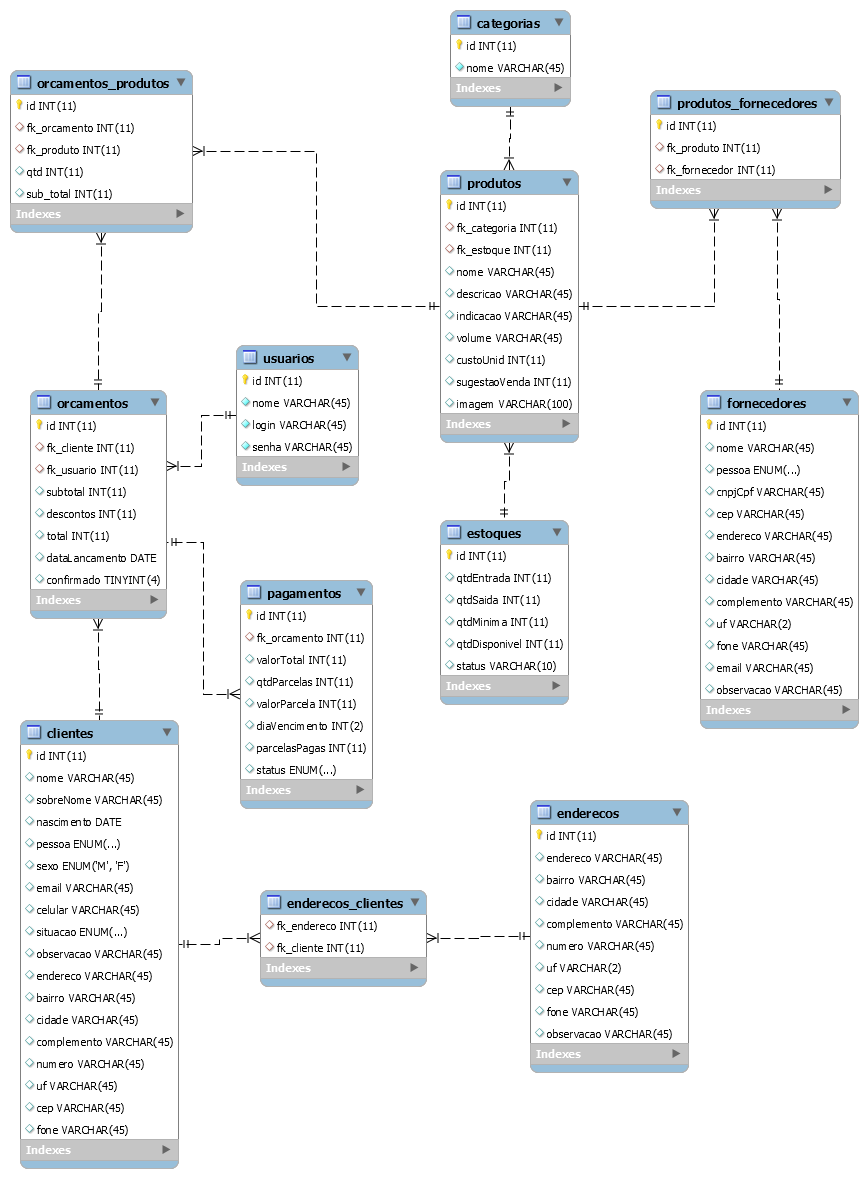
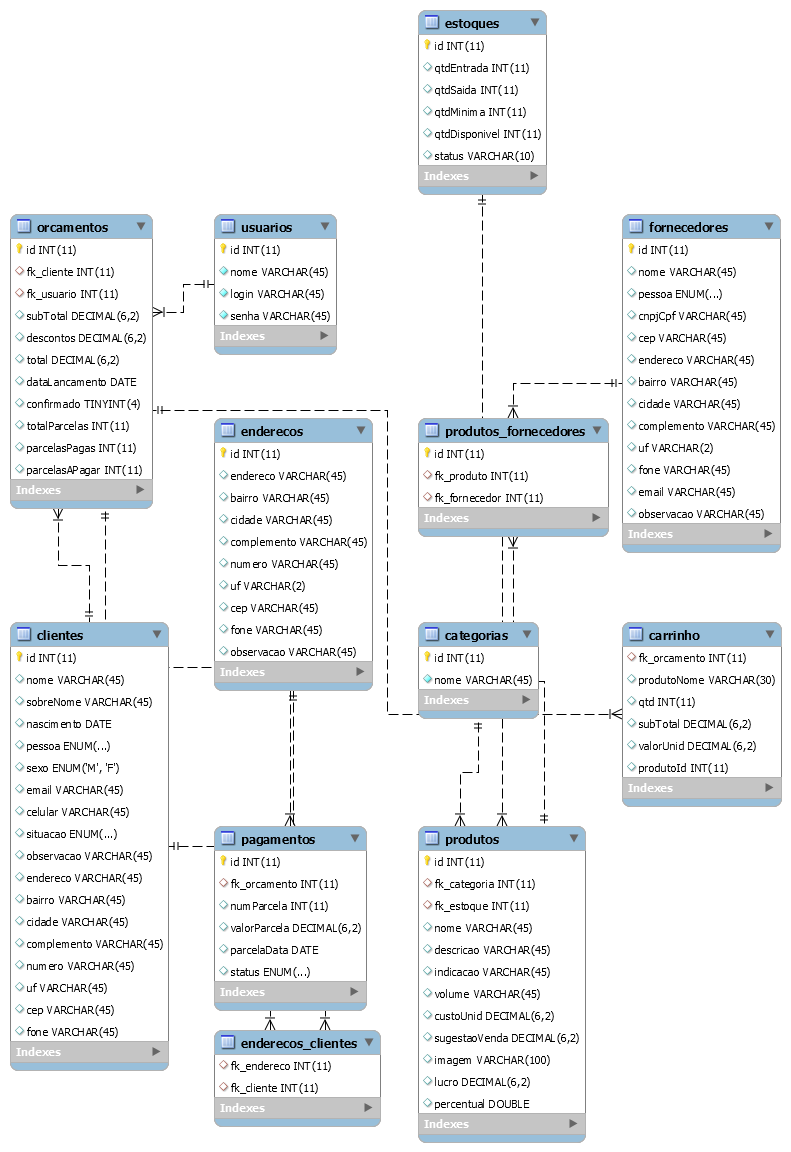
Salvar orçamento

diff --git a/workspace/sys-vendas/src/main/webapp/js/campos.js b/workspace/sys-vendas/src/main/webapp/js/campos.js
@@ -14,8 +14,6 @@ $(document).ready(function(){
 		
 		//Calcula o resto com retorno decimal
 		var resto = (valor - (valParcela * qtdParcela)).toFixed(2);
-
-		//alert( "Resto da divisão: " + resto );
 		
 		// limpa inputs
 		$("#divParcelas").empty();

diff --git a/workspace/sys-vendas/src/main/java/br/com/aluizio/sysvendas/dao/OrcamentoDao.java b/workspace/sys-vendas/src/main/java/br/com/aluizio/sysvendas/dao/OrcamentoDao.java
@@ -32,16 +32,19 @@ public class OrcamentoDao {
 
 	// Adicionar um Orcamento
 	public void salvaOrcamento(Orcamento orcamento) {
-		String sql = "Insert into Orcamentos (descontos,"
-				+ " total, dataLancamento, confirmado, fk_cliente, fk_usuario," + " totalParcelas, parcelasPagas)"
+		String sql = "Insert into Orcamentos ("
+				+ "subTotalOrcamento, descontos, totalOrcamento,"
+				+ " dataLancamento, fk_cliente, fk_usuario," 
+				+ " totalParcelas, parcelasPagas)"
 				+ " values (?,?,?,?,?,?,?,?)";
 
 		try (PreparedStatement stmt = connection.prepareStatement(sql)) {
-			stmt.setBigDecimal(1, orcamento.getDescontos());
-			stmt.setBigDecimal(2, orcamento.getTotalOrcamento());
+			stmt.setBigDecimal(1, orcamento.getSubTotalOrcamento());
+			
+			stmt.setBigDecimal(2, orcamento.getDescontos());
+			stmt.setBigDecimal(3, orcamento.getTotalOrcamento());
 
-			stmt.setDate(3, java.sql.Date.valueOf(orcamento.getDataLancamento()));
-			stmt.setBoolean(4, orcamento.isConfirmado());
+			stmt.setDate(4, java.sql.Date.valueOf(orcamento.getDataLancamento()));
 			stmt.setInt(5, orcamento.getCliente().getId());
 			stmt.setInt(6, orcamento.getUsuario().getId());
 
@@ -58,22 +61,21 @@ public class OrcamentoDao {
 
 	// Alterar
 	public void alterar(Orcamento orcamento) {
-		String sql = "Update Orcamentos set descontos=?," + " total=?, dataLancamento=?, confirmado=?,"
+		String sql = "Update Orcamentos set descontos=?," + " total=?, dataLancamento=?,"
 				+ " fk_cliente=?, fk_usuario=?, totalParcelas=?, parcelasPagas=? where id=?";
 
 		try (PreparedStatement stmt = connection.prepareStatement(sql)) {
 			stmt.setBigDecimal(1, orcamento.getDescontos());
 			stmt.setBigDecimal(2, orcamento.getTotalOrcamento());
 			stmt.setDate(3, java.sql.Date.valueOf(orcamento.getDataLancamento()));
-			stmt.setBoolean(4, orcamento.isConfirmado());
 
-			stmt.setInt(5, orcamento.getCliente().getId());
-			stmt.setInt(6, orcamento.getUsuario().getId());
+			stmt.setInt(4, orcamento.getCliente().getId());
+			stmt.setInt(5, orcamento.getUsuario().getId());
 
-			stmt.setInt(7, orcamento.getTotalParcelas());
-			stmt.setInt(8, orcamento.getParcelasPagas());
+			stmt.setInt(6, orcamento.getTotalParcelas());
+			stmt.setInt(7, orcamento.getParcelasPagas());
 
-			stmt.setInt(9, orcamento.getId());
+			stmt.setInt(8, orcamento.getId());
 
 			stmt.execute();
 
@@ -152,7 +154,6 @@ public class OrcamentoDao {
 				orcamento.setTotalParcelas(rs.getInt("totalParcelas"));
 				orcamento.setParcelasPagas(rs.getInt("parcelasPagas"));
 				orcamento.setParcelasAPagar(rs.getInt("parcelasAPagar"));
-				orcamento.setConfirmado(true);
 				
 				//Carrega Cliente
 				cliente.setId(rs.getInt("c.id"));
@@ -218,10 +219,11 @@ public class OrcamentoDao {
 				orcamento.setUsuario(usuario);
 				orcamento.setId(rs.getInt("o.id"));
 				orcamento.setDescontos(rs.getBigDecimal("o.descontos"));
-				orcamento.setTotalOrcamento(rs.getBigDecimal("o.total"));
+				orcamento.setTotalOrcamento(rs.getBigDecimal("o.totalOrcamento"));
+				// Calculado no banco 
+				// (`subTotalOrcamento` - ((`subTotalOrcamento` * `descontos`) / 100))
 				orcamento.setDataLancamento(rs.getDate("o.dataLancamento").toLocalDate());
-				orcamento.setConfirmado(rs.getBoolean("o.confirmado"));
-				orcamento.setSubTotalOrcamento(rs.getBigDecimal("o.subTotal"));
+				orcamento.setSubTotalOrcamento(rs.getBigDecimal("o.subTotalOrcamento"));
 				orcamento.setTotalParcelas(rs.getInt("totalParcelas"));
 				orcamento.setParcelasPagas(rs.getInt("parcelasPagas"));
 				orcamento.setParcelasAPagar(rs.getInt("parcelasAPagar"));

diff --git a/workspace/sys-vendas/src/main/java/br/com/aluizio/sysvendas/web/SalvaOrcamento.java b/workspace/sys-vendas/src/main/java/br/com/aluizio/sysvendas/web/SalvaOrcamento.java
@@ -52,24 +52,40 @@ public class SalvaOrcamento extends HttpServlet {
 		orcamento.setUsuario(usuario);
 		orcamento.setCliente(cliente);
 		
-		BigDecimal totalOrcamento = new BigDecimal(request.getParameter("totalOrcamento"));
+		//String sParcelasAPagar = request.getParameter("parcelasAPagar");
+		String sTotalOrcamento = request.getParameter("totalOrcamento");
+		String sSubTotalOrcamento = request.getParameter("subTotalOrcamento");
+		String sDescontos = request.getParameter("descontos");
+		
+		
+		//orcamento.setParcelasAPagar(Integer.parseInt(sParcelasAPagar));
+		
+		
+		
+		
+		BigDecimal totalOrcamento = new BigDecimal(sTotalOrcamento);
+		
 		orcamento.setTotalOrcamento(totalOrcamento);
 		
-		BigDecimal subTotalOrcamento = new BigDecimal(request.getParameter("subTotalOrcamento"));
+		BigDecimal subTotalOrcamento = new BigDecimal(sSubTotalOrcamento);
 		orcamento.setSubTotalOrcamento(subTotalOrcamento);
 		
-		BigDecimal descontos = new BigDecimal(request.getParameter("descontos"));
+		BigDecimal descontos = new BigDecimal(sDescontos);
 		orcamento.setDescontos(descontos);
 		
 		
 		////////////////////////////////////////////////
 		int totalParcelas = Integer.parseInt(request.getParameter("parcelas"));
+		System.out.println("Total de parcelas: "+totalParcelas);
 		int parcelasPagas = 1;
 		///////////////////////////////////////////////
 		
-		
 		orcamento.setTotalParcelas(totalParcelas);
 		orcamento.setParcelasPagas(parcelasPagas);
+		
+		//Seta a dataLancamento de agora
+		LocalDate dataLancamento = LocalDate.now();
+		orcamento.setDataLancamento(dataLancamento);
 		
 		//Pega os produtos do carrinho
 		sessionProdutos = request.getSession(false);
@@ -84,7 +100,6 @@ public class SalvaOrcamento extends HttpServlet {
 		
 		//Parte do pagamento
 		System.out.println("- Parcelas: "+totalParcelas);
-		
 		
 		System.out.println("- FK Orcamento: "+ fkOrcamento);
 		List<Pagamento> pagamentoList = new ArrayList<>();

diff --git a/workspace/sys-vendas/src/main/java/br/com/aluizio/sysvendas/model/Orcamento.java b/workspace/sys-vendas/src/main/java/br/com/aluizio/sysvendas/model/Orcamento.java
@@ -20,8 +20,7 @@ public class Orcamento {
 	private BigDecimal subTotalOrcamento;
 	private BigDecimal descontos;
 	private BigDecimal totalOrcamento;
-	private LocalDate dataLancamento = LocalDate.now();
-	private boolean confirmado;
+	private LocalDate dataLancamento;
 	private List<Carrinho> list;
 	private List<Pagamento> pagamentos;
 	
@@ -114,14 +113,6 @@ public class Orcamento {
 		this.dataLancamento = dataLancamento;
 	}
 
-	public boolean isConfirmado() {
-		return confirmado;
-	}
-
-	public void setConfirmado(boolean confirmado) {
-		this.confirmado = confirmado;
-	}
-
 	public BigDecimal getSubTotalOrcamento() {
 		return subTotalOrcamento;
 	}
@@ -135,7 +126,7 @@ public class Orcamento {
 		return "Orcamento [id=" + id + ", totalParcelas=" + totalParcelas + ", parcelasPagas=" + parcelasPagas
 				+ ", parcelasAPagar=" + parcelasAPagar + ", cliente=" + cliente + ", usuario=" + usuario
 				+ ", subTotalOrcamento=" + subTotalOrcamento + ", descontos=" + descontos + ", totalOrcamento="
-				+ totalOrcamento + ", dataLancamento=" + dataLancamento + ", confirmado=" + confirmado + ", list="
+				+ totalOrcamento + ", dataLancamento=" + dataLancamento + ", list="
 				+ list + ", pagamentos=" + pagamentos + "]";
 	}
 

diff --git a/workspace/sys-vendas/src/test/java/orcamento/TestaInsereOrcamento.java b/workspace/sys-vendas/src/test/java/orcamento/TestaInsereOrcamento.java
@@ -35,8 +35,6 @@ public class TestaInsereOrcamento {
 		LocalDate dataLancamento = LocalDate.now();
 		orcamento.setDataLancamento(dataLancamento);
 		
-		orcamento.setConfirmado(true);
-		
 		orcamento.setCliente(cliente);
 		orcamento.setUsuario(usuario);
 		
